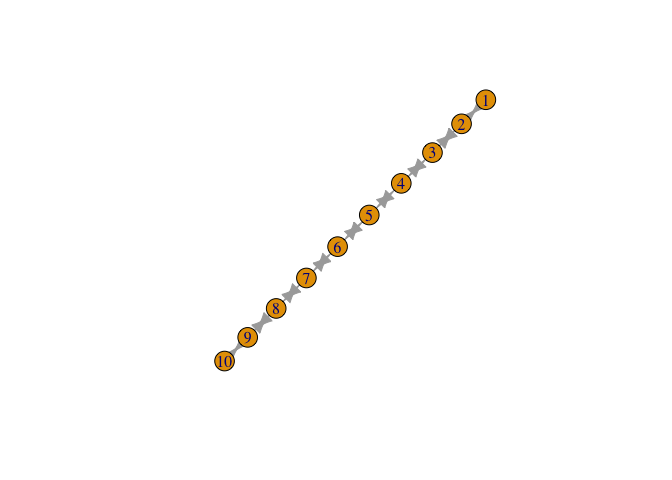
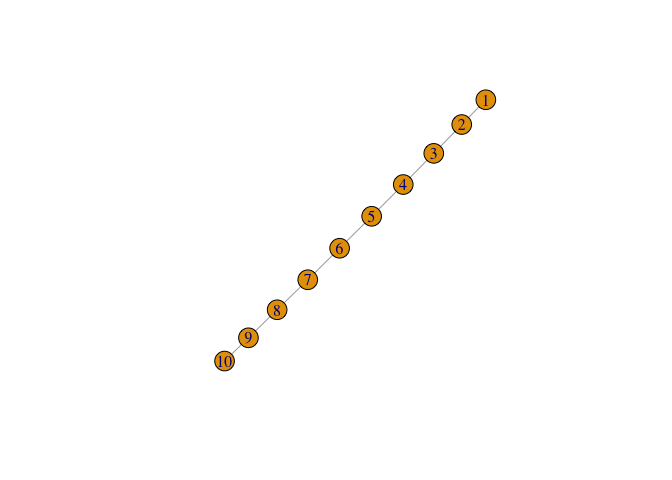
Readme updated (3)

Changed region(s): [[0.3438, 0.3438, 0.625, 0.75], [0.625, 0.2188, 0.7188, 0.3438]]

diff --git a/Readme.md b/Readme.md
@@ -41,7 +41,7 @@ S = cov(y)
 # Fix an adjacency matrix. Here we pick path graph of length p
 A = as.matrix(as_adjacency_matrix(make_tree(p,1,"undirected")))
 # plot the graph
-plot(graph_from_adjacency_matrix(A))
+plot(graph_from_adjacency_matrix(A,mode="undirected"))
 ```
 
 ![](README-example-1.png)<!-- -->
